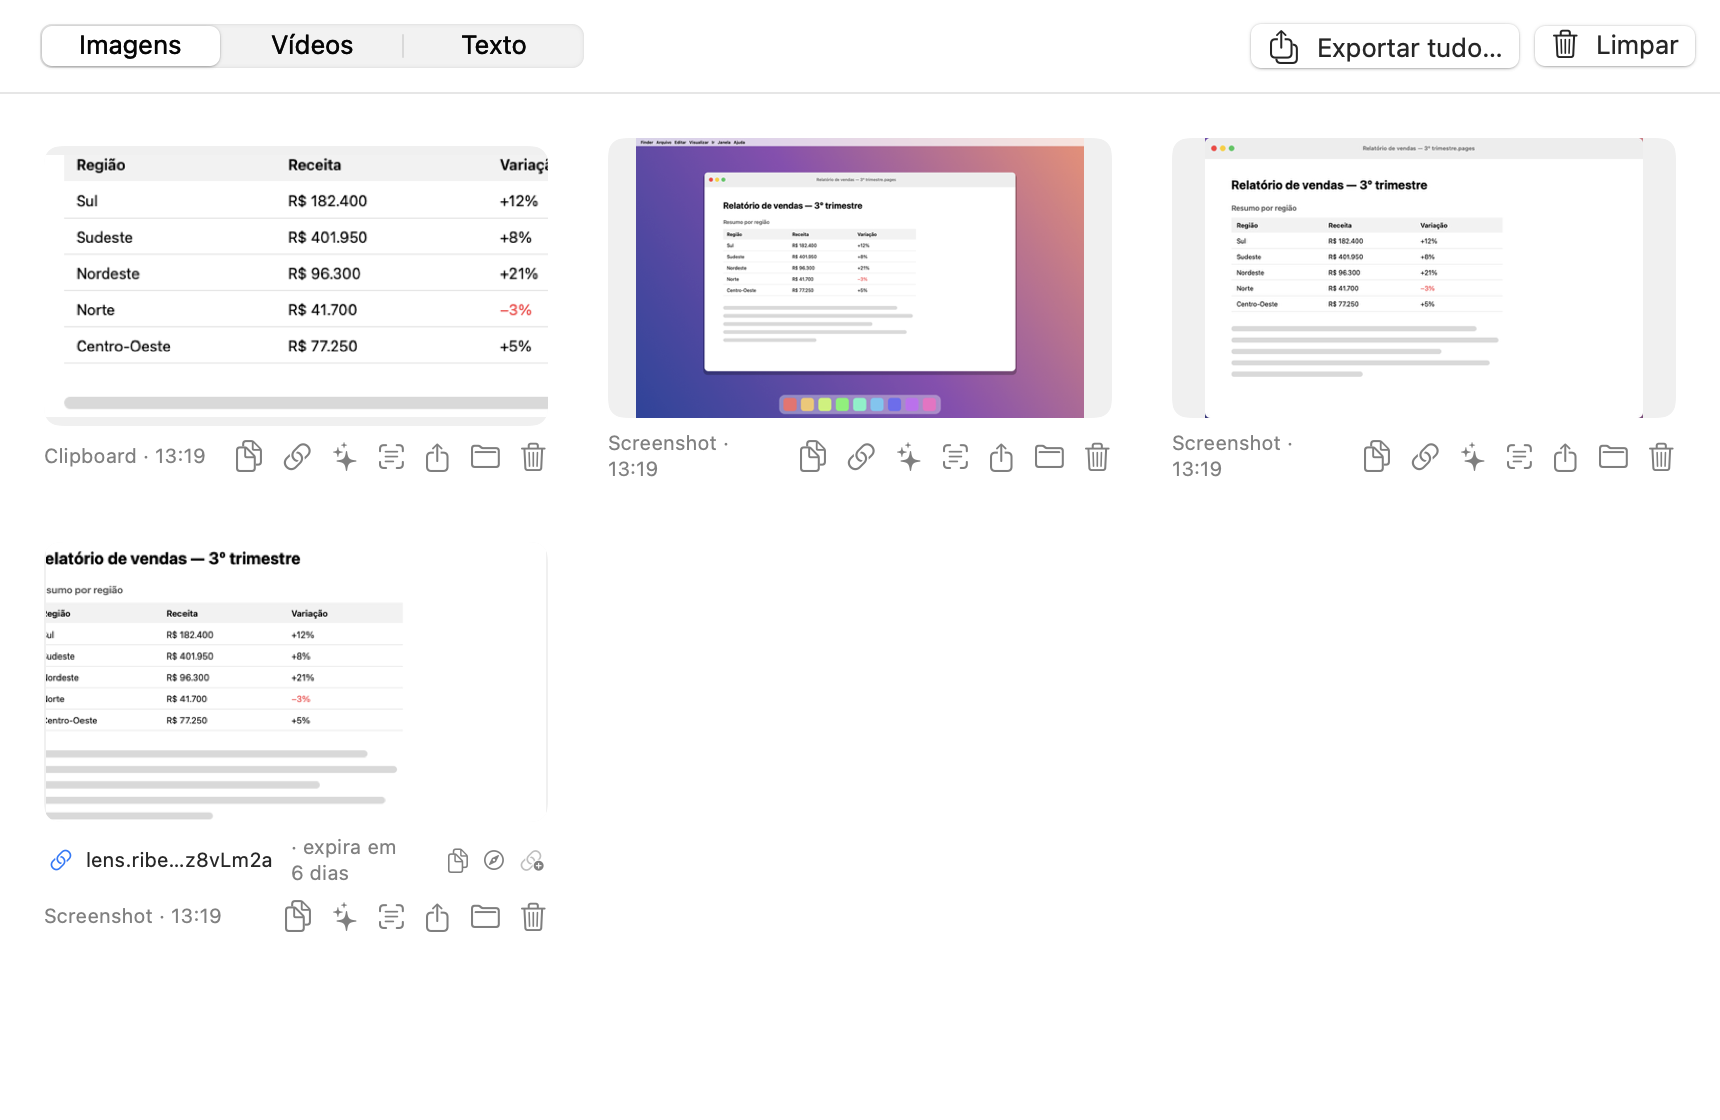
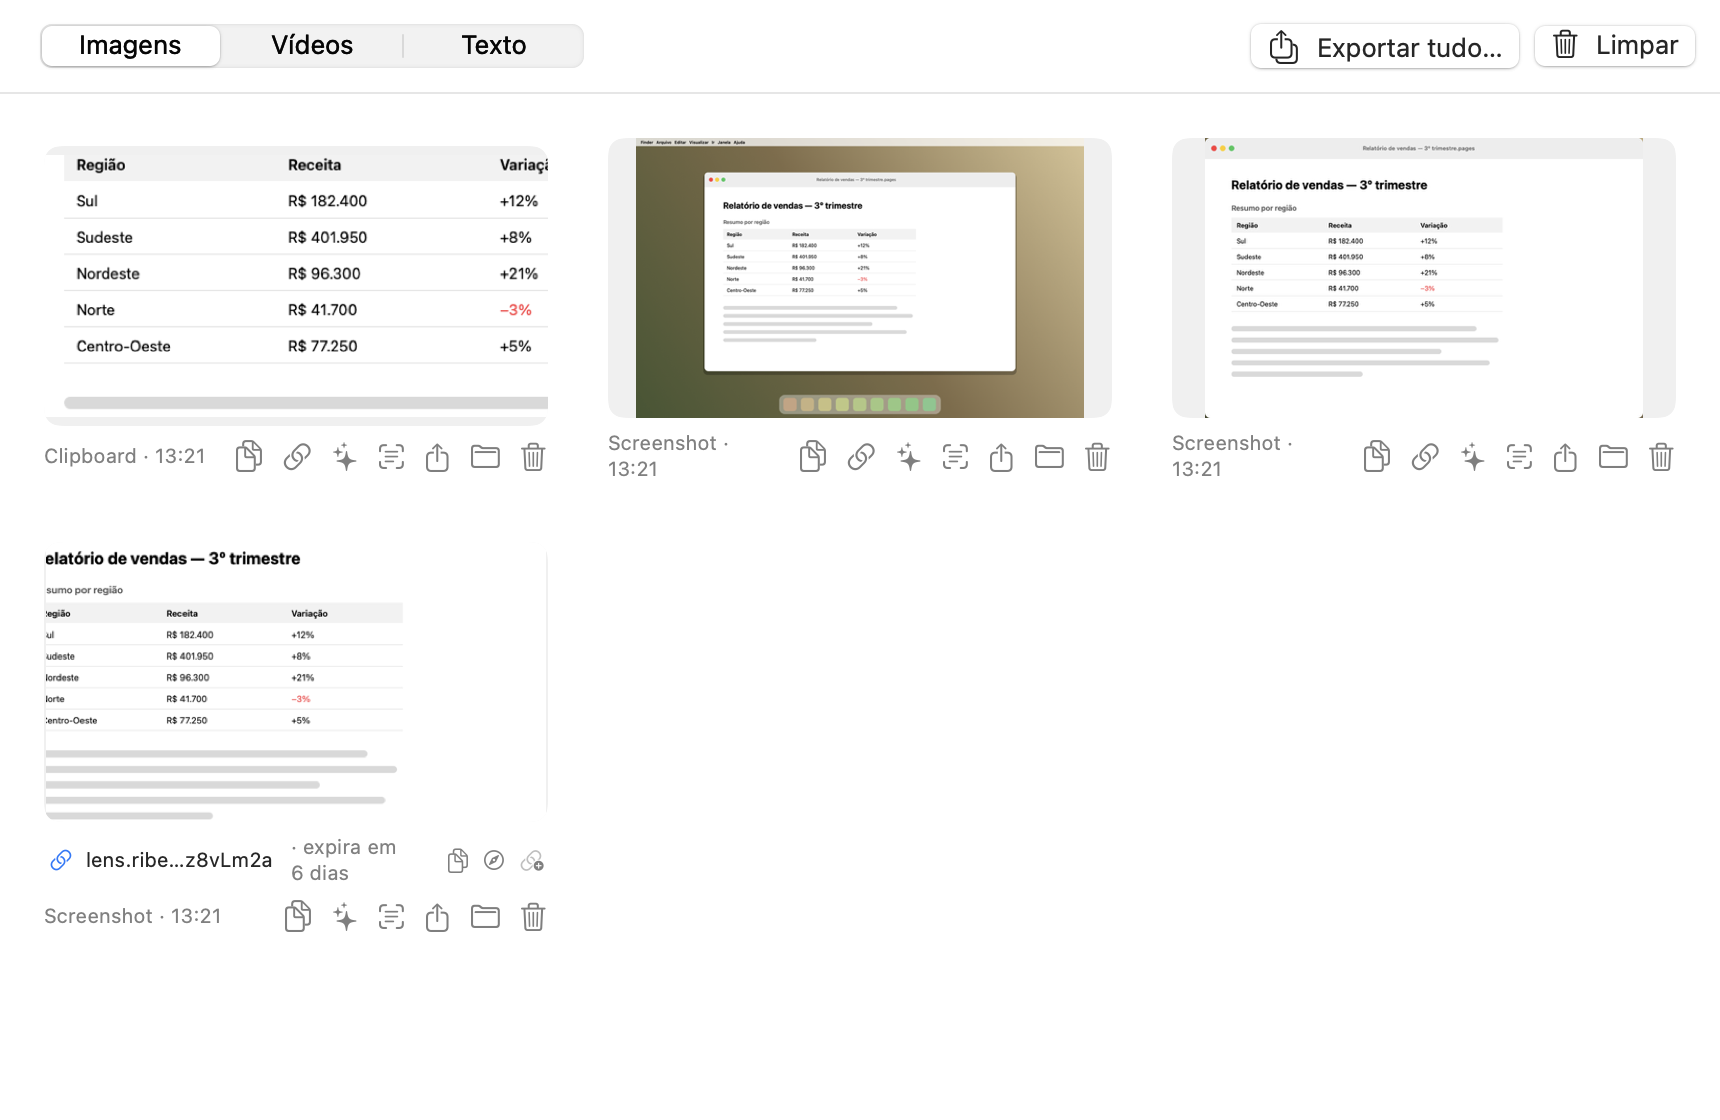
Site: tema claro em areia/marrom com verde-musgo; desktop dos prints em tons quentes; CSS v5

Changed region(s): [[0.3698, 0.125, 0.6471, 0.375]]

diff --git a/server/public_html/assets/site.css b/server/public_html/assets/site.css
@@ -1,13 +1,10 @@
 /* SnapLens — folha de estilo do site e das páginas do serviço */
 :root {
-  --bg: #0a0c14; --bg2: #10131f; --card: #141829; --card2: #1a1f33; --line: #232a44; --line2: #2f3756;
-  --text: #eef0f8; --muted: #98a1c0; --dim: #6b7391;
-  --accent: #6f7dff; --accent2: #b05cf0; --accent3: #ff7a9a; --ok: #3ddc84; --warn: #f0b35c; --bad: #ff5c6c;
-  --radius: 16px; --shadow: 0 30px 80px rgba(0,0,0,.55);
-}
-@media (prefers-color-scheme: light) {
-  :root { --bg: #f7f8fc; --bg2: #ffffff; --card: #ffffff; --card2: #f3f4fa; --line: #e4e7f1; --line2: #d3d7e6;
-          --text: #121629; --muted: #5b6280; --dim: #8a90a8; --shadow: 0 30px 80px rgba(20,24,60,.18); }
+  /* Paleta clara: areia/marrom no fundo, verde-musgo como cor principal, marrom como secundária */
+  --bg: #f3eee4; --bg2: #faf7f1; --card: #fffdf8; --card2: #efe8da; --line: #e2d8c5; --line2: #cfc2a8;
+  --text: #2a2419; --muted: #6b6052; --dim: #978a78;
+  --accent: #5f7a35; --accent2: #8a6a3c; --accent3: #9db35f; --ok: #4f8a3a; --warn: #b9812f; --bad: #b4473a;
+  --radius: 16px; --shadow: 0 28px 70px rgba(70, 52, 24, .20);
 }
 * { box-sizing: border-box; }
 html { scroll-behavior: smooth; -webkit-text-size-adjust: 100%; }
@@ -34,8 +31,8 @@ h1, h2, h3 { font-weight: 700; letter-spacing: -.02em; margin: 0; }
 .btn { display: inline-flex; align-items: center; justify-content: center; gap: 8px; padding: 10px 18px; border-radius: 12px; border: 1px solid var(--line2); background: var(--card); color: var(--text); text-decoration: none; font-weight: 600; font-size: 14.5px; cursor: pointer; transition: transform .15s, border-color .15s, box-shadow .15s, background .15s; white-space: nowrap; }
 .btn:hover { border-color: var(--accent); transform: translateY(-1px); }
 .btn:active { transform: translateY(0); }
-.btn.primary { background: linear-gradient(135deg, var(--accent), var(--accent2)); border-color: transparent; color: #fff; box-shadow: 0 8px 24px rgba(111,125,255,.35); }
-.btn.primary:hover { box-shadow: 0 12px 30px rgba(111,125,255,.45); }
+.btn.primary { background: linear-gradient(135deg, var(--accent), var(--accent2)); border-color: transparent; color: #fff; box-shadow: 0 8px 24px rgba(95,122,53,.30); }
+.btn.primary:hover { box-shadow: 0 12px 30px rgba(95,122,53,.40); }
 .btn.big { padding: 15px 26px; font-size: 16px; border-radius: 14px; }
 .btn.small { padding: 6px 11px; font-size: 13px; border-radius: 9px; }
 .btn.danger { color: var(--bad); } .btn.danger:hover { border-color: var(--bad); }
@@ -45,7 +42,7 @@ kbd { font: 13px/1 ui-monospace, SFMono-Regular, Menlo, monospace; background: v
 /* ---------- Hero ---------- */
 .hero { position: relative; padding: 84px 0 0; text-align: center; }
 .hero::before { content: ""; position: absolute; inset: -200px 0 auto; height: 720px; background:
-  radial-gradient(600px 360px at 50% 20%, color-mix(in srgb, var(--accent) 28%, transparent), transparent 70%),
+  radial-gradient(600px 360px at 50% 20%, color-mix(in srgb, var(--accent) 22%, transparent), transparent 70%),
   radial-gradient(500px 300px at 72% 10%, color-mix(in srgb, var(--accent2) 22%, transparent), transparent 70%); pointer-events: none; z-index: -1; }
 .eyebrow { display: inline-flex; align-items: center; gap: 8px; padding: 6px 12px 6px 8px; border-radius: 999px; border: 1px solid var(--line2); background: color-mix(in srgb, var(--card) 70%, transparent); font-size: 13px; color: var(--muted); margin-bottom: 26px; }
 .eyebrow b { display: inline-block; padding: 2px 8px; border-radius: 999px; background: linear-gradient(135deg, var(--accent), var(--accent2)); color: #fff; font-weight: 700; font-size: 11.5px; letter-spacing: .04em; text-transform: uppercase; }
@@ -63,7 +60,7 @@ kbd { font: 13px/1 ui-monospace, SFMono-Regular, Menlo, monospace; background: v
 .window .tb i:nth-child(1) { background: #ff5f57; } .window .tb i:nth-child(2) { background: #febc2e; } .window .tb i:nth-child(3) { background: #28c840; }
 .window .tb span { margin-left: auto; margin-right: auto; font-size: 12.5px; color: var(--muted); position: absolute; left: 0; right: 0; text-align: center; pointer-events: none; }
 .window img { width: 100%; }
-.hero .window { max-width: 1040px; margin: 56px auto 0; }
+.hero .window { max-width: 1040px; margin: 56px auto 0; border-color: var(--line2); }
 .hero-fade { height: 120px; margin-top: -120px; background: linear-gradient(to bottom, transparent, var(--bg)); position: relative; pointer-events: none; }
 
 /* ---------- Seções ---------- */
@@ -146,8 +143,8 @@ section { padding: 72px 0; }
 
 /* CTA final */
 .cta-band { position: relative; overflow: hidden; text-align: center; padding: 56px 24px; border-radius: 22px; border: 1px solid var(--line2); background: linear-gradient(135deg, color-mix(in srgb, var(--accent) 22%, var(--card)), color-mix(in srgb, var(--accent2) 22%, var(--card))); }
-.cta-band::before { content: ""; position: absolute; inset: 0; background: radial-gradient(500px 220px at 50% 0%, rgba(255,255,255,.14), transparent 70%); pointer-events: none; }
-.cta-band img { width: 88px; height: 88px; margin: 0 auto 18px; border-radius: 20px; box-shadow: 0 16px 40px rgba(0,0,0,.35); }
+.cta-band::before { content: ""; position: absolute; inset: 0; background: radial-gradient(500px 220px at 50% 0%, rgba(255,255,255,.45), transparent 70%); pointer-events: none; }
+.cta-band img { width: 88px; height: 88px; margin: 0 auto 18px; border-radius: 20px; box-shadow: 0 16px 40px rgba(70,52,24,.30); }
 .cta-band h2 { font-size: clamp(26px, 3.4vw, 36px); margin-bottom: 8px; }
 .cta-band p { color: var(--muted); margin: 0 0 24px; }
 .cta-band .meta { margin-top: 14px; font-size: 13px; color: var(--muted); }
@@ -214,7 +211,7 @@ body.share { display: flex; flex-direction: column; min-height: 100vh; }
 .share .bar .exp { color: var(--warn); } .share .bar .exp.never { color: var(--ok); }
 .share .bar .actions { margin-left: auto; display: flex; gap: 8px; }
 .stage { flex: 1; display: grid; place-items: center; padding: 24px; background: radial-gradient(1200px 600px at 50% 0%, color-mix(in srgb, var(--accent) 14%, transparent), transparent); }
-.shot { max-height: calc(100vh - 170px); width: auto; border-radius: 12px; box-shadow: var(--shadow); background: #fff; }
+.shot { max-height: calc(100vh - 170px); width: auto; border-radius: 12px; box-shadow: var(--shadow); background: #fff; border: 1px solid var(--line); }
 .gone { text-align: center; max-width: 440px; }
 .gone-icon { font-size: 56px; margin-bottom: 10px; }
 .gone h1 { font-size: 26px; margin: 0 0 10px; }

diff --git a/Sources/SnapLens/Shots.swift b/Sources/SnapLens/Shots.swift
@@ -77,9 +77,9 @@ enum Shots {
 
     private static func makeDesktop(size: CGSize) -> NSImage {
         NSImage(size: size, flipped: true) { r in
-            NSGradient(colors: [NSColor(red: 0.16, green: 0.27, blue: 0.62, alpha: 1),
-                                NSColor(red: 0.55, green: 0.30, blue: 0.70, alpha: 1),
-                                NSColor(red: 0.95, green: 0.55, blue: 0.45, alpha: 1)])!.draw(in: r, angle: -35)
+            NSGradient(colors: [NSColor(red: 0.27, green: 0.33, blue: 0.19, alpha: 1),
+                                NSColor(red: 0.50, green: 0.42, blue: 0.28, alpha: 1),
+                                NSColor(red: 0.84, green: 0.76, blue: 0.58, alpha: 1)])!.draw(in: r, angle: -35)
             // barra de menus
             NSColor(white: 1, alpha: 0.75).setFill(); NSRect(x: 0, y: 0, width: r.width, height: 26).fill()
             text("  Finder   Arquivo   Editar   Visualizar   Ir   Janela   Ajuda", at: CGPoint(x: 8, y: 5), size: 13, weight: .semibold, color: .black)
@@ -115,7 +115,7 @@ enum Shots {
             let dock = NSRect(x: r.midX - 260, y: r.height - 74, width: 520, height: 62)
             NSColor(white: 1, alpha: 0.35).setFill(); NSBezierPath(roundedRect: dock, xRadius: 18, yRadius: 18).fill()
             for i in 0..<9 {
-                NSColor(hue: CGFloat(i) / 9, saturation: 0.55, brightness: 0.95, alpha: 1).setFill()
+                NSColor(hue: 0.08 + CGFloat(i) * 0.035, saturation: 0.35, brightness: 0.78, alpha: 1).setFill()
                 NSBezierPath(roundedRect: NSRect(x: dock.minX + 14 + CGFloat(i) * 56, y: dock.minY + 10, width: 42, height: 42), xRadius: 10, yRadius: 10).fill()
             }
             return true

diff --git a/server/public_html/index.html b/server/public_html/index.html
@@ -5,13 +5,13 @@
 <meta name="viewport" content="width=device-width, initial-scale=1">
 <title>SnapLens — screenshots, OCR e IA para macOS</title>
 <meta name="description" content="SnapLens: app nativo de barra de menu para macOS com captura anotada, OCR local, descrição por IA, gravação de tela, biblioteca e links públicos que expiram sozinhos.">
-<meta name="theme-color" content="#0a0c14">
+<meta name="theme-color" content="#f3eee4">
 <meta property="og:title" content="SnapLens para macOS">
 <meta property="og:description" content="Capture, anote, extraia texto e compartilhe com link que expira. Grátis, nativo, sem conta.">
 <meta property="og:image" content="https://lens.ribeiros.click/assets/img/overlay.png">
 <meta name="twitter:card" content="summary_large_image">
 <link rel="icon" href="/assets/icon.png">
-<link rel="stylesheet" href="/assets/site.css?v=4">
+<link rel="stylesheet" href="/assets/site.css?v=5">
 </head>
 <body>
 <header class="bar">

diff --git a/server/public_html/politicas/index.html b/server/public_html/politicas/index.html
@@ -6,7 +6,7 @@
 <title>Políticas · SnapLens</title>
 <meta name="description" content="Políticas de privacidade, termos de uso, uso aceitável, retenção de dados e segurança do SnapLens e do serviço lens.ribeiros.click.">
 <link rel="icon" href="/assets/icon.png">
-<link rel="stylesheet" href="/assets/site.css?v=4">
+<link rel="stylesheet" href="/assets/site.css?v=5">
 </head>
 <body>
 <header class="bar">

diff --git a/server/public_html/politicas/retencao.html b/server/public_html/politicas/retencao.html
@@ -5,7 +5,7 @@
 <meta name="viewport" content="width=device-width, initial-scale=1">
 <title>Política de Retenção de Dados · SnapLens</title>
 <link rel="icon" href="/assets/icon.png">
-<link rel="stylesheet" href="/assets/site.css?v=4">
+<link rel="stylesheet" href="/assets/site.css?v=5">
 </head>
 <body>
 <header class="bar">

diff --git a/server/public_html/politicas/uso-aceitavel.html b/server/public_html/politicas/uso-aceitavel.html
@@ -5,7 +5,7 @@
 <meta name="viewport" content="width=device-width, initial-scale=1">
 <title>Política de Uso Aceitável · SnapLens</title>
 <link rel="icon" href="/assets/icon.png">
-<link rel="stylesheet" href="/assets/site.css?v=4">
+<link rel="stylesheet" href="/assets/site.css?v=5">
 </head>
 <body>
 <header class="bar">

diff --git a/server/public_html/politicas/privacidade.html b/server/public_html/politicas/privacidade.html
@@ -5,7 +5,7 @@
 <meta name="viewport" content="width=device-width, initial-scale=1">
 <title>Política de Privacidade · SnapLens</title>
 <link rel="icon" href="/assets/icon.png">
-<link rel="stylesheet" href="/assets/site.css?v=4">
+<link rel="stylesheet" href="/assets/site.css?v=5">
 </head>
 <body>
 <header class="bar">

diff --git a/server/public_html/politicas/seguranca.html b/server/public_html/politicas/seguranca.html
@@ -5,7 +5,7 @@
 <meta name="viewport" content="width=device-width, initial-scale=1">
 <title>Política de Segurança · SnapLens</title>
 <link rel="icon" href="/assets/icon.png">
-<link rel="stylesheet" href="/assets/site.css?v=4">
+<link rel="stylesheet" href="/assets/site.css?v=5">
 </head>
 <body>
 <header class="bar">

diff --git a/server/public_html/politicas/termos.html b/server/public_html/politicas/termos.html
@@ -5,7 +5,7 @@
 <meta name="viewport" content="width=device-width, initial-scale=1">
 <title>Termos de Uso · SnapLens</title>
 <link rel="icon" href="/assets/icon.png">
-<link rel="stylesheet" href="/assets/site.css?v=4">
+<link rel="stylesheet" href="/assets/site.css?v=5">
 </head>
 <body>
 <header class="bar">

diff --git a/server/public_html/_inc.php b/server/public_html/_inc.php
@@ -5,7 +5,7 @@ declare(strict_types=1);
 function page_header(string $title): void {
     header('Cache-Control: no-store');
     echo '<!doctype html><html lang="pt-BR"><head><meta charset="utf-8"><meta name="viewport" content="width=device-width, initial-scale=1">';
-    echo '<title>' . h($title) . ' · SnapLens</title><meta name="robots" content="noindex"><link rel="icon" href="/assets/icon.png"><link rel="stylesheet" href="/assets/site.css?v=4"></head><body>';
+    echo '<title>' . h($title) . ' · SnapLens</title><meta name="robots" content="noindex"><link rel="icon" href="/assets/icon.png"><link rel="stylesheet" href="/assets/site.css?v=5"></head><body>';
     echo '<header class="bar"><a class="brand" href="/"><img src="/assets/icon.png" alt="" width="28" height="28"> SnapLens</a><nav>';
     echo '<a href="/#recursos">Recursos</a><a href="/token">Acessar por token</a><a href="/politicas/">Políticas</a><a href="/contato">Contato</a><a class="btn primary small" href="/download/SnapLens.dmg">Baixar</a>';
     echo '</nav></header><main class="doc">';

diff --git a/server/public_html/view.php b/server/public_html/view.php
@@ -38,7 +38,7 @@ $h = fn(string $s): string => htmlspecialchars($s, ENT_QUOTES, 'UTF-8');
 <meta name="twitter:card" content="summary_large_image">
 <?php endif; ?>
 <link rel="icon" href="/assets/icon.png">
-<link rel="stylesheet" href="/assets/site.css?v=4">
+<link rel="stylesheet" href="/assets/site.css?v=5">
 </head>
 <body class="share">
 <header class="bar">
